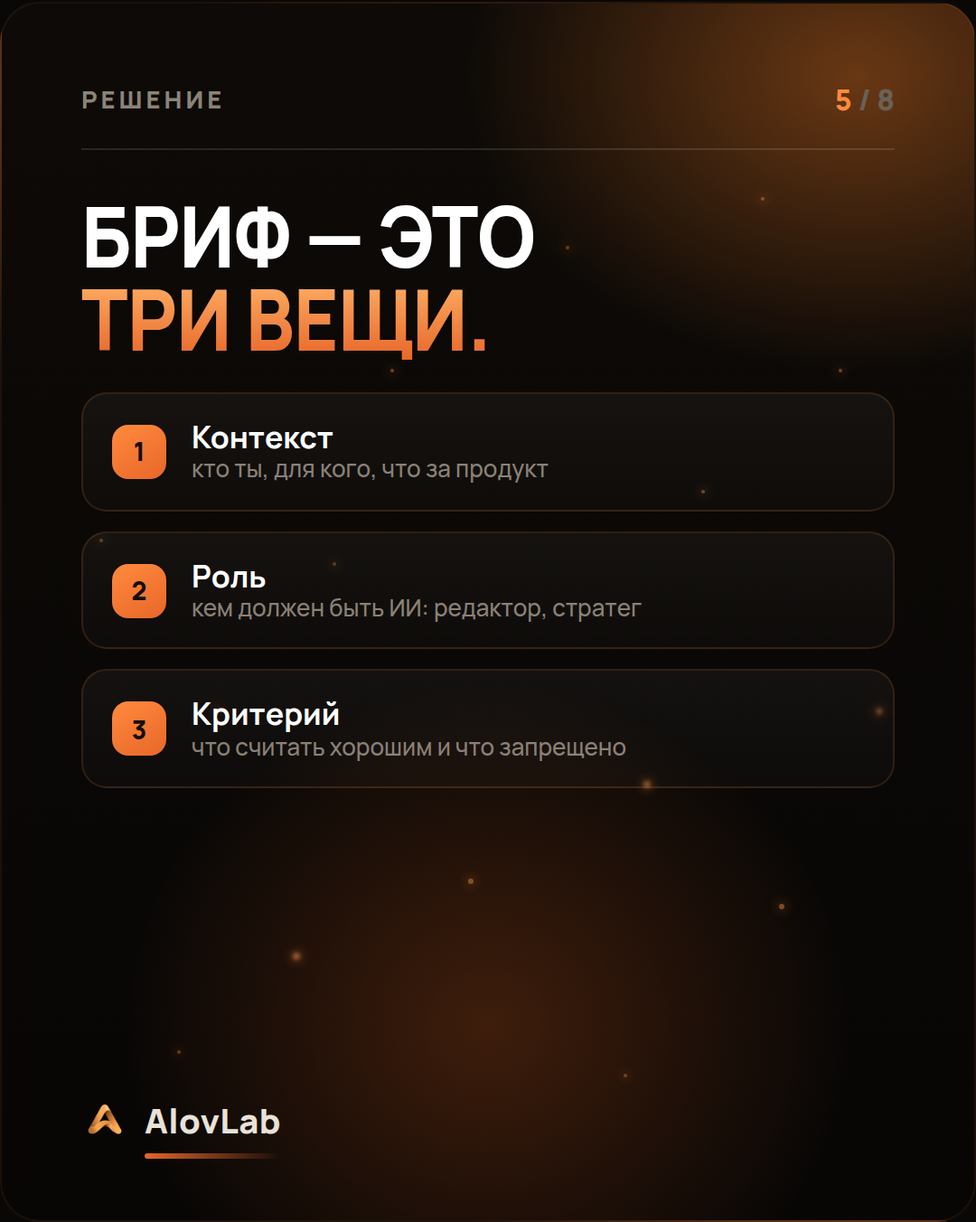
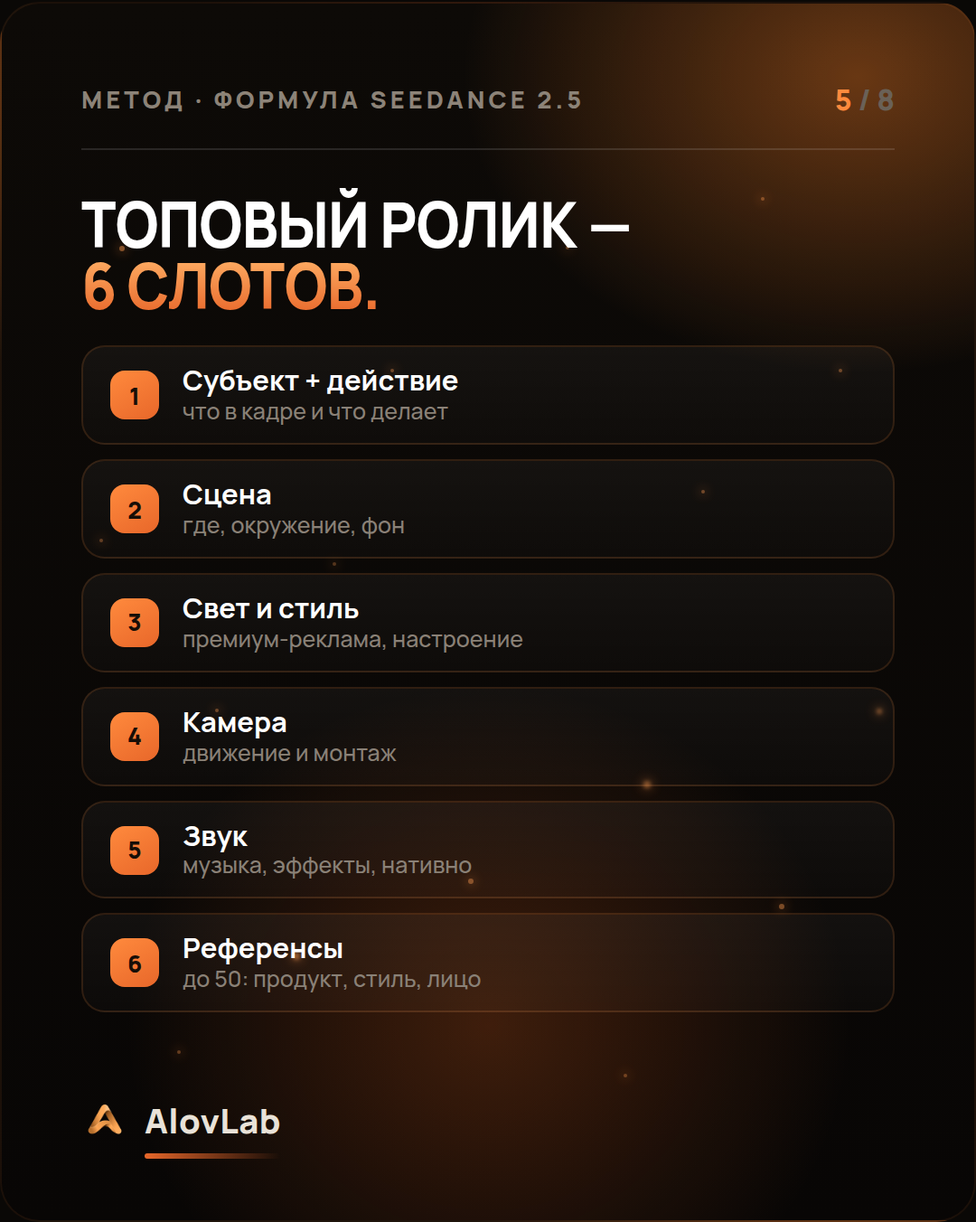
Карусель Дня 8 v3: разворот на «топовый рекламный ролик» (не еда) + без пустых блоков
- тема: как сделать топовый рекламный ролик нейросетью; пример — реклама кроссовка
- убраны абстрактные «пустые» полоски: превью-ролики (сток/кино), список 6 слотов,
  живой промпт Seedance 2.5 (реальный текст)
- метод = 6-слотовая формула Seedance 2.5 (сверено по источникам)

Claude-Session: https://claude.ai/code/session_019LoRMaWcrsShywAHDg8vmg

diff --git a/scripts/carousel_showcase_day8.py b/scripts/carousel_showcase_day8.py
@@ -1,7 +1,7 @@
 # -*- coding: utf-8 -*-
-"""AlovLab · День 8 «Один запрос — два ответа» (бриф для ИИ) — SHOWCASE + СВОИ ИЛЛЮСТРАЦИИ.
-На слайдах-концептах — bespoke SVG-сцены под каждую мысль (сплит, стена штампов, голова→слово, развилка).
-Нумерация N/8. RU кроме AlovLab. Запуск: python3 scripts/carousel_showcase_day8.py"""
+"""AlovLab · День 8 «Как сделать топовый рекламный ролик» (бриф/промпт для ИИ) — SHOWCASE + иллюстрации.
+Пример — реклама (кроссовок), НЕ еда. Метод — 6 слотов Seedance 2.5. Блоки с реальным содержимым.
+Нумерация N/8. RU кроме AlovLab и промптов. Запуск: python3 scripts/carousel_showcase_day8.py"""
 import pathlib
 from carousel_showcase_render import (CSS as CSS0, DEFS, FOOT, sparks, rings, LOGO, ROOT)
 
@@ -12,13 +12,12 @@ EXTRA = r"""
 .hsm .head h2{font-size:37px}
 .cover .head h2{font-size:50px}
 .cover .sub{margin-top:14px;max-width:26ch;font-size:17px}
-/* область иллюстрации */
+.mch .head h2{font-size:35px}
 .viz{flex:1;position:relative;z-index:2;display:grid;place-items:center;min-height:0;margin-top:14px}
 .viz svg{width:min(92%,480px);height:100%;max-height:360px}
 .viz::before{content:"";position:absolute;left:50%;top:55%;width:74%;height:64%;transform:translate(-50%,-50%);
  background:radial-gradient(closest-side,rgba(255,120,40,.16),transparent 72%);z-index:-1;pointer-events:none}
 .body.tight{margin-top:16px}
-/* пу + промпт-плашка */
 .pu{position:relative;z-index:4;margin-top:14px;display:inline-block;font-weight:800;font-size:11px;text-transform:uppercase;
  letter-spacing:.03em;color:var(--o2);background:rgba(232,103,42,.13);border:1px solid rgba(232,103,42,.3);border-radius:20px;padding:8px 14px}
 .pbox{position:relative;z-index:4;margin-top:15px;background:#120c06;border:1px solid rgba(255,150,80,.28);
@@ -29,75 +28,57 @@ EXTRA = r"""
  color:#ffd9b8;white-space:pre-wrap;word-break:break-word}
 .pbox .ru{margin-top:11px;padding-top:10px;border-top:1px solid rgba(255,255,255,.1);font-size:11.5px;line-height:1.4;color:#b9ad9b}
 .pbox .ru b{color:#fff}
-/* список брифа */
-.mlist{position:relative;z-index:4;margin-top:18px;display:flex;flex-direction:column;gap:11px}
-.mrow{display:flex;align-items:center;gap:14px;background:linear-gradient(180deg,rgba(255,255,255,.045),rgba(255,255,255,.02));
- border:1px solid rgba(255,140,60,.14);border-radius:14px;padding:14px 16px}
-.mrow .n{flex:0 0 auto;width:30px;height:30px;border-radius:9px;display:flex;align-items:center;justify-content:center;
- font-weight:800;font-size:14px;color:#160e07;background:linear-gradient(150deg,var(--o2),var(--o))}
-.mrow .t b{font-weight:700;font-size:17px;color:#fff;line-height:1.15;display:block}
-.mrow .t span{font-weight:500;font-size:13px;color:#8a8177;line-height:1.25}
-/* до/после сплит */
-.split{position:relative;z-index:4;margin-top:16px;display:flex;flex-direction:column;gap:12px}
-.sfact{font-weight:600;font-size:14px;color:#b9ad9b;line-height:1.35}.sfact b{color:#fff}
-.scard{border-radius:14px;padding:14px 16px}
-.scard .lab{display:inline-block;font-weight:800;font-size:9px;letter-spacing:.09em;text-transform:uppercase;padding:4px 9px;border-radius:6px;margin-bottom:8px}
-.scard .q{font-weight:700;font-size:15.5px;line-height:1.3}.scard .r{margin-top:6px;font-weight:500;font-size:12px;line-height:1.3}
-.scard.cold{background:rgba(255,255,255,.04);border:1px solid rgba(255,255,255,.1)}
-.scard.cold .lab{background:rgba(255,255,255,.1);color:#9a9084}.scard.cold .q{color:#8f867b}.scard.cold .r{color:#6f675d}
-.scard.hot{background:#130c06;border:1px solid rgba(255,150,80,.32);border-left:3px solid var(--o)}
-.scard.hot .lab{background:linear-gradient(150deg,var(--o2),var(--o));color:#160e07}.scard.hot .q{color:#fff}.scard.hot .r{color:#c7a184}
+.sfact{font-weight:600;font-size:14px;color:#b9ad9b;line-height:1.4}.sfact b{color:#fff}
+/* список слотов */
+.mlist{position:relative;z-index:4;margin-top:16px;margin-bottom:4px;display:flex;flex-direction:column;gap:8px}
+.mrow{display:flex;align-items:center;gap:13px;background:linear-gradient(180deg,rgba(255,255,255,.045),rgba(255,255,255,.02));
+ border:1px solid rgba(255,140,60,.14);border-radius:13px;padding:10px 15px}
+.mrow .n{flex:0 0 auto;width:27px;height:27px;border-radius:8px;display:flex;align-items:center;justify-content:center;
+ font-weight:800;font-size:13px;color:#160e07;background:linear-gradient(150deg,var(--o2),var(--o))}
+.mrow .t b{font-weight:700;font-size:15.5px;color:#fff;line-height:1.15;display:block}
+.mrow .t span{font-weight:500;font-size:12.5px;color:#8a8177;line-height:1.2}
 """
 CSS = CSS0 + EXTRA
 
-# ---------------- BESPOKE-СЦЕНЫ ----------------
+# ---------------- СЦЕНЫ (превью-кадры ролика, без «пустых» полосок) ----------------
 SC_COVER = '''<svg viewBox="0 0 480 250" fill="none" font-family="Manrope">
  <rect x="196" y="4" width="88" height="24" rx="12" stroke="url(#ig)" stroke-width="3"/>
- <text x="240" y="21" fill="#ffcaa0" font-size="12" font-weight="800" text-anchor="middle">запрос</text>
- <path d="M240 28 V48 M130 48 H350 M130 48 V66 M350 48 V66" stroke="#6a6157" stroke-width="2.5"/>
- <rect x="40" y="72" width="176" height="166" rx="16" fill="#ffffff08" stroke="#ffffff1f" stroke-width="2"/>
- <rect x="62" y="98" width="132" height="11" rx="5.5" fill="#574e44"/>
- <rect x="62" y="122" width="132" height="11" rx="5.5" fill="#4d463d"/>
- <rect x="62" y="146" width="100" height="11" rx="5.5" fill="#4d463d"/>
- <rect x="62" y="170" width="132" height="11" rx="5.5" fill="#443e36"/>
- <rect x="62" y="194" width="84" height="11" rx="5.5" fill="#443e36"/>
- <text x="128" y="228" fill="#8a8177" font-size="12.5" font-weight="800" text-anchor="middle" letter-spacing="1.5">КАРТОН</text>
- <rect x="264" y="72" width="176" height="166" rx="16" fill="#1a1108" stroke="url(#ig)" stroke-width="2.5"/>
- <rect x="286" y="98" width="132" height="12" rx="6" fill="url(#ig)"/>
- <rect x="286" y="123" width="90" height="12" rx="6" fill="url(#ig)" opacity="0.85"/>
- <rect x="286" y="148" width="120" height="12" rx="6" fill="url(#ig)" opacity="0.7"/>
- <rect x="286" y="173" width="72" height="12" rx="6" fill="url(#ig)" opacity="0.55"/>
- <path d="M410 190 l4.5 11 11 4.5 -11 4.5 -4.5 11 -4.5 -11 -11 -4.5 11 -4.5 z" fill="url(#ig)"/>
- <text x="352" y="228" fill="#ff9a4d" font-size="12.5" font-weight="800" text-anchor="middle" letter-spacing="1.5">ЖИВОЙ</text>
+ <text x="240" y="21" fill="#ffcaa0" font-size="12" font-weight="800" text-anchor="middle">промпт</text>
+ <path d="M240 28 V48 M130 48 H350 M130 48 V64 M350 48 V64" stroke="#6a6157" stroke-width="2.5"/>
+ <rect x="44" y="66" width="168" height="150" rx="14" fill="#ffffff08" stroke="#ffffff1f" stroke-width="2"/>
+ <circle cx="128" cy="130" r="26" stroke="#5a5148" stroke-width="3"/>
+ <path d="M121 118 l19 12 -19 12 z" fill="#5a5148"/>
+ <text x="128" y="238" fill="#8a8177" font-size="12.5" font-weight="800" text-anchor="middle" letter-spacing="1.5">СТОК</text>
+ <rect x="268" y="66" width="168" height="150" rx="14" fill="#1a1108" stroke="url(#ig)" stroke-width="2.5"/>
+ <circle cx="352" cy="130" r="26" stroke="url(#ig)" stroke-width="3"/>
+ <path d="M345 118 l19 12 -19 12 z" fill="url(#ig)"/>
+ <path d="M300 92 l3.5 9 9 3.5 -9 3.5 -3.5 9 -3.5 -9 -9 -3.5 9 -3.5 z" fill="url(#ig)"/>
+ <path d="M414 178 l3 7.5 7.5 3 -7.5 3 -3 7.5 -3 -7.5 -7.5 -3 7.5 -3 z" fill="url(#ig)" opacity="0.85"/>
+ <text x="352" y="238" fill="#ff9a4d" font-size="12.5" font-weight="800" text-anchor="middle" letter-spacing="1.5">КИНО</text>
 </svg>'''
 
 SC_PROBLEM = '''<svg viewBox="0 0 480 250" fill="none" font-family="Manrope">
- <rect x="78" y="8" width="324" height="234" rx="18" fill="#ffffff06" stroke="#ffffff1a" stroke-width="2"/>
- <rect x="100" y="30" width="156" height="28" rx="14" stroke="url(#ig)" stroke-width="2.5"/>
- <text x="112" y="48" fill="#ffcaa0" font-size="12.5" font-weight="700">напиши пост</text>
- <rect x="344" y="30" width="28" height="28" rx="9" fill="url(#ig)"/>
- <path d="M352 44 h11 M358 39 l5 5 -5 5" stroke="#160e07" stroke-width="2.4" stroke-linecap="round" stroke-linejoin="round"/>
- <rect x="100" y="82" width="272" height="12" rx="6" fill="#574e44"/>
- <rect x="100" y="104" width="272" height="12" rx="6" fill="#4f473e"/>
- <rect x="100" y="126" width="240" height="12" rx="6" fill="#4f473e"/>
- <rect x="100" y="148" width="272" height="12" rx="6" fill="#463f37"/>
- <rect x="100" y="170" width="208" height="12" rx="6" fill="#463f37"/>
- <rect x="100" y="192" width="272" height="12" rx="6" fill="#3f3931"/>
- <rect x="100" y="214" width="176" height="12" rx="6" fill="#3f3931"/>
+ <rect x="118" y="20" width="244" height="158" rx="16" fill="#ffffff06" stroke="#ffffff1a" stroke-width="2"/>
+ <circle cx="240" cy="88" r="30" stroke="#5a5148" stroke-width="3"/>
+ <path d="M231 72 l22 16 -22 16 z" fill="#5a5148"/>
+ <path d="M150 150 h180" stroke="#463f37" stroke-width="3" stroke-linecap="round"/>
+ <text x="240" y="212" fill="#8a8177" font-size="13" font-weight="800" text-anchor="middle">плоский сток</text>
+ <text x="240" y="232" fill="#6a6157" font-size="11.5" text-anchor="middle">ровный свет · ноль динамики</text>
 </svg>'''
 
 SC_CAUSE = '''<svg viewBox="0 0 480 250" fill="none" font-family="Manrope">
  <path d="M64 244 v-70 a66 66 0 0 1 132 0 v70 z" fill="#1a1108" stroke="url(#ig)" stroke-width="3"/>
  <g font-size="11.5" font-weight="700" text-anchor="middle">
-  <rect x="78" y="140" width="54" height="22" rx="11" fill="#e8672a2e" stroke="url(#ig)" stroke-width="1.4"/><text x="105" y="155" fill="#ffcaa0">ниша</text>
-  <rect x="138" y="140" width="58" height="22" rx="11" fill="#e8672a2e" stroke="url(#ig)" stroke-width="1.4"/><text x="167" y="155" fill="#ffcaa0">гость</text>
-  <rect x="78" y="168" width="46" height="22" rx="11" fill="#e8672a2e" stroke="url(#ig)" stroke-width="1.4"/><text x="101" y="183" fill="#ffcaa0">тон</text>
-  <rect x="130" y="168" width="66" height="22" rx="11" fill="#e8672a2e" stroke="url(#ig)" stroke-width="1.4"/><text x="163" y="183" fill="#ffcaa0">продукт</text>
+  <rect x="76" y="140" width="52" height="22" rx="11" fill="#e8672a2e" stroke="url(#ig)" stroke-width="1.4"/><text x="102" y="155" fill="#ffcaa0">свет</text>
+  <rect x="134" y="140" width="62" height="22" rx="11" fill="#e8672a2e" stroke="url(#ig)" stroke-width="1.4"/><text x="165" y="155" fill="#ffcaa0">ракурс</text>
+  <rect x="76" y="168" width="72" height="22" rx="11" fill="#e8672a2e" stroke="url(#ig)" stroke-width="1.4"/><text x="112" y="183" fill="#ffcaa0">движение</text>
+  <rect x="154" y="168" width="42" height="22" rx="11" fill="#e8672a2e" stroke="url(#ig)" stroke-width="1.4"/><text x="175" y="183" fill="#ffcaa0">звук</text>
  </g>
  <path d="M210 150 h58 M256 141 l12 9 -12 9" stroke="#8a8177" stroke-width="3" stroke-linecap="round" stroke-linejoin="round"/>
- <rect x="292" y="92" width="150" height="116" rx="15" fill="#ffffff06" stroke="#ffffff1a" stroke-width="2"/>
- <rect x="316" y="140" width="48" height="12" rx="6" fill="#574e44"/>
- <text x="367" y="150" fill="#6a6157" font-size="11" font-weight="700">одно слово</text>
+ <rect x="292" y="98" width="150" height="104" rx="15" fill="#ffffff06" stroke="#ffffff1a" stroke-width="2"/>
+ <circle cx="367" cy="140" r="18" stroke="#5a5148" stroke-width="2.6"/>
+ <path d="M362 132 l12 8 -12 8 z" fill="#5a5148"/>
+ <text x="367" y="182" fill="#6a6157" font-size="11" font-weight="700" text-anchor="middle">одно слово</text>
 </svg>'''
 
 SC_MISTAKE = '''<svg viewBox="0 0 480 250" fill="none" font-family="Manrope">
@@ -111,10 +92,8 @@ SC_MISTAKE = '''<svg viewBox="0 0 480 250" fill="none" font-family="Manrope">
  <text x="116" y="222" fill="#8a8177" font-size="12.5" font-weight="800" text-anchor="middle">сменить модель</text>
  <text x="116" y="240" fill="#6a6157" font-size="11" text-anchor="middle">— тупик</text>
  <rect x="306" y="122" width="80" height="90" rx="12" fill="#1a1108" stroke="url(#ig)" stroke-width="2.5"/>
- <rect x="324" y="142" width="46" height="8" rx="4" fill="url(#ig)"/>
- <rect x="324" y="158" width="46" height="8" rx="4" fill="url(#ig)" opacity="0.8"/>
- <rect x="324" y="174" width="30" height="8" rx="4" fill="url(#ig)" opacity="0.6"/>
- <text x="346" y="234" fill="#ff9a4d" font-size="12.5" font-weight="800" text-anchor="middle">бриф</text>
+ <path d="M322 146 h48 M322 162 h48 M322 178 h30" stroke="url(#ig)" stroke-width="5" stroke-linecap="round"/>
+ <text x="346" y="234" fill="#ff9a4d" font-size="12.5" font-weight="800" text-anchor="middle">промпт</text>
 </svg>'''
 
 def viz(scene): return f'<div class="viz">{scene}</div>'
@@ -122,7 +101,7 @@ def viz(scene): return f'<div class="viz">{scene}</div>'
 def cover(hw, ho, sub, scene):
     return f"""<article class="slide cover">{DEFS}
   <div class="sparks">{sparks()}</div>
-  <div class="top"><span class="eb">AlovLab · как ставить задачу ИИ</span><span class="pg">1<b> / 8</b></span></div>
+  <div class="top"><span class="eb">AlovLab · топовый рекламный ролик</span><span class="pg">1<b> / 8</b></span></div>
   <div class="head"><h2><span class="w">{hw}</span><span class="o">{ho}</span></h2></div>
   <div class="sub">{sub}</div>
   {viz(scene)}
@@ -139,17 +118,20 @@ def sc(eb, hw, ho, bl, bm, scene, pg):
   {FOOT}
 </article>"""
 
-BRIEF = [
- ("1","Контекст","кто ты, для кого, что за продукт"),
- ("2","Роль","кем должен быть ИИ: редактор, стратег"),
- ("3","Критерий","что считать хорошим и что запрещено"),
+SLOTS = [
+ ("1","Субъект + действие","что в кадре и что делает"),
+ ("2","Сцена","где, окружение, фон"),
+ ("3","Свет и стиль","премиум-реклама, настроение"),
+ ("4","Камера","движение и монтаж"),
+ ("5","Звук","музыка, эффекты, нативно"),
+ ("6","Референсы","до 50: продукт, стиль, лицо"),
 ]
-def brief_slide():
-    rows="".join(f'<div class="mrow"><div class="n">{n}</div><div class="t"><b>{t}</b><span>{s}</span></div></div>' for n,t,s in BRIEF)
+def method_slide():
+    rows="".join(f'<div class="mrow"><div class="n">{n}</div><div class="t"><b>{t}</b><span>{s}</span></div></div>' for n,t,s in SLOTS)
     return f"""<article class="slide mch">{DEFS}
   <div class="sparks">{sparks()}</div>
-  <div class="top"><span class="eb">Решение</span><span class="pg">5<b> / 8</b></span></div>
-  <div class="head"><h2><span class="w">Бриф — это</span><span class="o">три вещи.</span></h2></div>
+  <div class="top"><span class="eb">Метод · формула Seedance 2.5</span><span class="pg">5<b> / 8</b></span></div>
+  <div class="head"><h2><span class="w">Топовый ролик —</span><span class="o">6 слотов.</span></h2></div>
   <div class="mlist">{rows}</div>
   {FOOT}
 </article>"""
@@ -158,10 +140,10 @@ def demo_slide():
     return f"""<article class="slide hsm">{DEFS}
   <div class="sparks">{sparks()}</div>
   <div class="top"><span class="eb">До / после · Seedance 2.5</span><span class="pg">6<b> / 8</b></span></div>
-  <div class="head"><h2><span class="w">Тот же ролик —</span><span class="o">другой результат.</span></h2></div>
-  <div class="sfact" style="margin-top:15px"><b>Голый запрос:</b> «видео с блюдом, красиво» — на выходе общий сток ни о чём.</div>
-  <div class="pbox"><span class="tag">Seedance 2.5 · живой промпт</span><code>Обжаренный гребешок на тёмном сланце, рука ставит тарелку, поднимается пар — уютный ресторан при свечах, тёплый янтарный свет — кинематографичная реклама еды, малая глубина резкости — медленный наезд с лёгкой сменой фокуса — тихий гул зала и лёгкое шипение.</code>
-    <div class="ru"><b>Разбор — 6 слотов Seedance:</b> субъект + действие · сцена · стиль · камера · звук. Детали вместо пустоты — модель знает, что снимать, а не гадает.</div></div>
+  <div class="head"><h2><span class="w">Тот же продукт —</span><span class="o">другой ролик.</span></h2></div>
+  <div class="sfact" style="margin-top:15px"><b>Голый запрос:</b> «сделай рекламу кроссовок» — на выходе плоский сток.</div>
+  <div class="pbox"><span class="tag">Seedance 2.5 · живой промпт</span><code>Белый кроссовок на бетонном постаменте, шнурки затягиваются сами, взлетает пыль — тёмная студия, один движущийся луч света — премиальная спортивная реклама, глянцевые блики — быстрый облёт камерой и слоу-мо на пике — глубокий бас и чёткий щелчок.</code>
+    <div class="ru"><b>Разбор — 6 слотов:</b> субъект + действие · сцена · свет и стиль · камера · звук. Детали вместо пустоты — модель снимает кино, а не сток.</div></div>
   {FOOT}
 </article>"""
 
@@ -169,14 +151,13 @@ def prompt_slide():
     return f"""<article class="slide hsm">{DEFS}
   <div class="sparks">{sparks()}</div>
   <div class="top"><span class="eb">Готовый промпт</span><span class="pg">7<b> / 8</b></span></div>
-  <div class="head"><h2><span class="w">Шаблон</span><span class="o">брифа.</span></h2></div>
-  <div class="pu">Польза · блогер · эксперт · SMM · бизнес</div>
-  <div class="pbox"><span class="tag">Claude / ChatGPT</span><code>Контекст: ты [РОЛЬ] для [БИЗНЕС]. Аудитория: [КТО].
-Продукт: [ЧТО], деталь: [ФИШКА].
-Задача: [ЧТО НАПИСАТЬ].
-Критерий: один хук, одна деталь, живой язык.
-Запрещено: «мы рады», штампы, вода. Финал — [ДЕЙСТВИЕ].</code>
-    <div class="ru"><b>Разбор:</b> три строки сверху над задачей — контекст, роль, критерий. Меняют не модель, а качество ответа.</div></div>
+  <div class="head"><h2><span class="w">Шаблон под</span><span class="o">свой продукт.</span></h2></div>
+  <div class="pu">Польза · бренд · e-com · SMM · продакшен</div>
+  <div class="pbox"><span class="tag">Seedance 2.5 · скопировать</span><code>[ПРОДУКТ] + [действие/движение] —
+[сцена и свет] — [стиль: премиум-реклама, настроение] —
+[движение камеры и монтаж] — [звук: музыка, эффекты].
+Референсы: фото продукта, кадр-стиль, лицо (до 50).</code>
+    <div class="ru"><b>Разбор:</b> заполни 6 слотов под свой товар — и получишь рекламный кадр, а не сток. Пустых мест не оставляй.</div></div>
   {FOOT}
 </article>"""
 
@@ -193,25 +174,25 @@ def cta(hw, ho, items, btn):
 </article>"""
 
 SLIDES = [
- cover("Один запрос —", "два ответа.", "Слева картон, справа живой текст. Модель — одна и та же.", SC_COVER),
- sc("Проблема","Просишь","«напиши пост».","А получаешь картон: «мы рады представить","наше новое меню» — так ИИ отвечает на голую строку.", SC_PROBLEM, 2),
- sc("Причина","ИИ не читает","мысли.","Нишу, гостя, тон, продукт ты держишь в голове.","ИИ их не видит — и затыкает пустоту средним.", SC_CAUSE, 3),
- sc("Ошибка","Ты меняешь","модель.","А менять надо бриф. Слабый ответ —","это слабо поставленная задача, а не слабый ИИ.", SC_MISTAKE, 4),
- brief_slide(),
+ cover("Один промпт —", "два ролика.", "Слева сток, справа кино. Модель — одна и та же. Разницу делает промпт.", SC_COVER),
+ sc("Проблема","Просишь","«сделай рекламу».","И получаешь плоский сток: ровный свет, ноль динамики.","ИИ снял «что-то про продукт» — потому что так и попросили.", SC_PROBLEM, 2),
+ sc("Причина","Нейросеть не","додумает кадр.","Свет, ракурс, движение, звук — это режиссёрское решение.","Не скажешь — получишь среднее, что модель знает про всех.", SC_CAUSE, 3),
+ sc("Ошибка","Ты меняешь","модель.","А менять надо промпт. Плоский ролик —","это плоское задание, а не слабая нейросеть.", SC_MISTAKE, 4),
+ method_slide(),
  demo_slide(),
  prompt_slide(),
- cta("Добавь","три строки.",
-     ["<b>не переписывай</b> задачу — допиши сверху 3 строки",
-      "контекст · роль · критерий — и отправь заново",
-      "формула и шаблон под нишу — в тетради"],
-     "Тетрадь → t.me/AlovLab"),
+ cta("Собери","свой промпт.",
+     ["<b>6 слотов</b> под твой продукт → рекламный кадр, а не сток",
+      "формула, разбор и готовые промпты — в тетради",
+      "трендовые модели: Seedance 2.5, Kling, Higgsfield"],
+     "Промпты → t.me/AlovLab"),
 ]
 
-HTML = f"""<title>Один запрос — два ответа · showcase · AlovLab</title><meta name="viewport" content="width=device-width, initial-scale=1">
+HTML = f"""<title>Как сделать топовый рекламный ролик · showcase · AlovLab</title><meta name="viewport" content="width=device-width, initial-scale=1">
 <style>{CSS}</style>
 <div class="page">
   <div class="lead"><span class="eb">AlovLab · День 8 · 11 августа · showcase + иллюстрации</span>
-    <h1>Одним постом: обложка → проблема → бриф → было/после → промпт → CTA. Instagram и Telegram, 4:5.</h1></div>
+    <h1>Как сделать топовый рекламный ролик: обложка → проблема → 6 слотов → до/после → промпт → CTA. 4:5.</h1></div>
   <div class="grid">
 {''.join(SLIDES)}
   </div>
